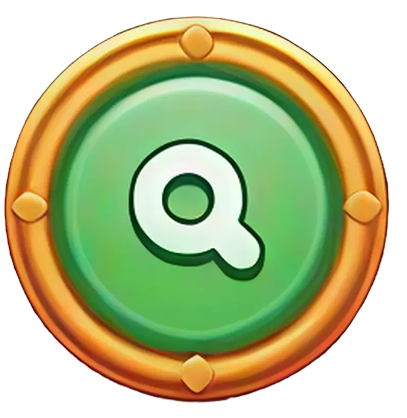
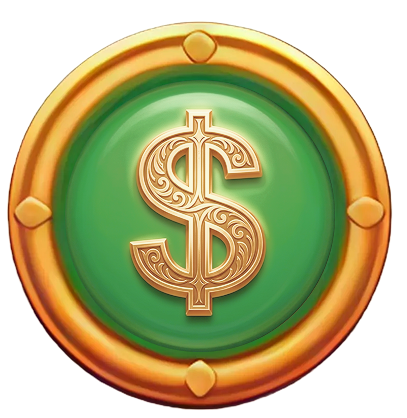
Replace GIFs with background & transition videos
Swap heavyweight GIFs for hardware-decoded MP4s and add a Home/back control.

- CSS: replace background GIF fills with solid fallbacks and new video helpers (.screen-bg, .start-bg, .transition-vid), reorganize top-right controls into .topbar-right, unify styling for info/back buttons and adjust responsive rules.
- UI: components/Game.tsx now embeds looping background and splash videos, and adds a top-right Home (back) button alongside the How-to button; transition layer uses a <video> element instead of an image GIF.
- Controller: stop warming the transition GIF; mute & attempt to play background videos on boot; orchestrate the transition using the transition video (timeupdate/ended handlers + safety timeout) to crossfade the game in/out; add goHome() to restore the splash and re-arm Start; attach Home button handler.
- Assets: add background.mp4, start_screen.mp4, transition.mp4 and back.png; update history.png.

Motivation: MP4s are hardware-decoded, much smaller and smoother than large looping GIFs; transition video allows a clean crossfade on the portal climax. Safety/fallbacks included for autoplay restrictions and reduced-motion preferences.

diff --git a/lib/controller.ts b/lib/controller.ts
@@ -120,11 +120,15 @@ export function boot(): () => void {
 
     // Warm the cascade break-frame GIF so it's cached before the first break
     // animation (replaces the <link rel=preload> the browser flagged as unused).
-    // Also warm the START → game transition GIF so it plays instantly on click.
-    if (typeof Image !== "undefined") {
-      new Image().src = "/assets/cell-break.gif";
-      new Image().src = "/assets/transition.gif";
-    }
+    if (typeof Image !== "undefined") { new Image().src = "/assets/cell-break.gif"; }
+
+    // Background/transition videos: force-mute (React doesn't reliably reflect
+    // the `muted` attribute) so autoplay is allowed, then start the looping
+    // backgrounds. The portal transition is preloaded via its markup.
+    document.querySelectorAll<HTMLVideoElement>("video.start-bg, video.screen-bg, #transitionVid")
+      .forEach((v) => { v.muted = true; });
+    document.querySelectorAll<HTMLVideoElement>("video.start-bg, video.screen-bg")
+      .forEach((v) => { v.play().catch(() => { /* autoplay may defer; harmless */ }); });
 
     // decorative art
     $("runeRing").innerHTML = S.art.techRune();
@@ -351,9 +355,9 @@ export function boot(): () => void {
 
   // Reveal the game on Start. Ignored until the game is ready, and fires exactly
   // once (Start click, Space, and Enter all funnel through here). The sequence:
-  // play the portal transition GIF full-screen, then crossfade — the transition
-  // fades out while the game screen (with its normal background GIF) fades in.
-  const TRANSITION_HOLD = 2600;   // ms the transition plays before the game fades in (tunable)
+  // play the portal transition video IN FULL, fade the game in during its final
+  // stretch, then fade the transition out exactly when the clip ends — a clean
+  // crossfade that lands on the portal climax.
   function dismissStart(): void {
     if (!gameReady || splashGone) return;
     splashGone = true;
@@ -361,45 +365,75 @@ export function boot(): () => void {
 
     const ss = document.getElementById("startScreen");
     const tr = document.getElementById("transition");
-    const trGif = document.getElementById("transitionGif") as HTMLImageElement | null;
+    const vid = document.getElementById("transitionVid") as HTMLVideoElement | null;
     const game = document.getElementById("game");
 
     // Fallback: if the transition layer isn't present, just fade the splash out.
-    if (!tr || !trGif || !game) {
+    if (!tr || !vid || !game) {
       if (ss) { ss.classList.add("hide"); setTimeout(() => { ss.hidden = true; }, 600); }
       return;
     }
 
-    const runTransition = (): void => {
-      // 1) play the transition GIF on top of everything, fading it in over the
-      //    splash (frame 0 ≈ the splash art, so the hand-off is seamless).
-      tr.hidden = false;
-      void tr.offsetWidth;             // reflow so the .show opacity transition runs
-      tr.classList.add("show");
-
-      // 2) once the GIF covers the screen, drop the splash underneath it
-      setTimeout(() => { if (ss) ss.hidden = true; }, 500);
-
-      // 3) crossfade. Start the game fading in first, then lift the transition a
-      //    beat later — by the time it thins, the game is already most of the way
-      //    in, so there's no dark gap and the reveal stays smooth.
-      setTimeout(() => { game.classList.add("reveal-in"); }, TRANSITION_HOLD);
-      setTimeout(() => { tr.classList.add("out"); }, TRANSITION_HOLD + 300);
-
-      // 4) tidy up after the crossfade — remove the transition layer + temp class
+    let finished = false;
+    // Start fading the game in during the clip's final ~0.85s so the crossfade
+    // overlaps the climax.
+    const onTime = (): void => {
+      if (vid.duration && vid.currentTime >= vid.duration - 0.85) {
+        game.classList.add("reveal-in");
+        vid.removeEventListener("timeupdate", onTime);
+      }
+    };
+    // Finish when the clip ends (or via the safety net): lift the transition off
+    // the now-revealed game. Detaches its own listeners so the Home → Start
+    // round-trip re-arms cleanly without stacking handlers.
+    const finish = (): void => {
+      if (finished) return;
+      finished = true;
+      vid.removeEventListener("timeupdate", onTime);
+      vid.removeEventListener("ended", finish);
+      game.classList.add("reveal-in");   // ensure the game is fading/faded in
+      tr.classList.add("out");           // lift the transition off it
       setTimeout(() => {
         tr.hidden = true;
         tr.classList.remove("show", "out");
-        trGif.removeAttribute("src");  // free the decoded frames
         game.classList.remove("reveal-in");
-      }, TRANSITION_HOLD + 1400);
+        try { vid.pause(); } catch { /* ignore */ }
+      }, 1000);
     };
+    vid.addEventListener("timeupdate", onTime, { signal });
+    vid.addEventListener("ended", finish, { signal });
 
-    // Decode the (warmed, cached) GIF before showing so its first frame paints
-    // instantly — no dark flash during the fade-in. Falls back to showing now.
-    trGif.src = "/assets/transition.gif";
-    if (typeof trGif.decode === "function") trGif.decode().then(runTransition, runTransition);
-    else runTransition();
+    // show the transition over the splash, drop the splash beneath it, play from 0
+    tr.hidden = false;
+    void tr.offsetWidth;                 // reflow so the .show opacity transition runs
+    tr.classList.add("show");
+    setTimeout(() => { if (ss) ss.hidden = true; }, 500);
+    try { vid.currentTime = 0; } catch { /* metadata may not be ready; harmless */ }
+    const p = vid.play();
+    if (p && typeof p.catch === "function") p.catch(() => { /* blocked → safety net covers it */ });
+
+    // safety net: if 'ended' never fires (decode stall / blocked play), force-finish
+    const durMs = (vid.duration && isFinite(vid.duration) ? vid.duration : 8.5) * 1000 + 1500;
+    setTimeout(finish, durMs);
+  }
+
+  // Back-to-home button: bring the splash back over the running game and re-arm
+  // START. The game keeps its state underneath; pressing START plays the portal
+  // transition again and reveals it.
+  function goHome(): void {
+    const ss = document.getElementById("startScreen");
+    if (!ss) return;
+    stopAuto();                           // don't leave auto-spin running behind the splash
+    const tr = document.getElementById("transition");
+    if (tr) { tr.hidden = true; tr.classList.remove("show", "out"); }
+    const game = document.getElementById("game");
+    if (game) game.classList.remove("reveal-in");
+    ss.classList.remove("hide");
+    ss.hidden = false;
+    splashGone = false;                   // re-arm START (click / Space / Enter)
+    const bg = ss.querySelector("video.start-bg") as HTMLVideoElement | null;
+    if (bg) { bg.muted = true; bg.play().catch(() => { /* autoplay may defer */ }); }
+    beep(420, 0.08, "square", 0.04);      // soft back blip
   }
 
   async function preSpin(): Promise<void> {
@@ -693,6 +727,9 @@ export function boot(): () => void {
       }
     };
     document.addEventListener("keydown", onStartKey, { signal });
+
+    // back-to-home button (top-right) — re-show the splash over the game
+    $("btnHome").addEventListener("click", goHome, { signal });
 
     btnSpin.addEventListener("click", handleSpinPress, { signal });
 

diff --git a/app/globals.css b/app/globals.css
@@ -40,10 +40,14 @@ button{font-family:inherit;cursor:pointer;color:inherit;}
   container-type:size;
   container-name:stage;
   display:flex;flex-direction:column;
-  background:
-    url('/assets/background.gif') center/cover no-repeat #0a0510;
+  background:#0a0510;
   overflow:hidden;
 }
+/* hardware-decoded background video (was background.gif — ~6× smaller, smooth).
+   Sits at the very back: container-type on .screen makes it a stacking context,
+   so z-index:-1 paints above the solid fill but below the stone floor + content. */
+.screen-bg{position:absolute;inset:0;width:100%;height:100%;object-fit:cover;
+  z-index:-1;pointer-events:none;}
 .screen::before{ /* stone floor — fades smoothly upward, no hard cutoff */
   content:"";position:absolute;left:0;right:0;bottom:0;height:48%;
   background:linear-gradient(to top,
@@ -102,8 +106,11 @@ button{font-family:inherit;cursor:pointer;color:inherit;}
 .logo img{height:clamp(62px,14.5cqh,184px);width:auto;display:block;
   filter:drop-shadow(0 0 18px #43e8ff77) drop-shadow(0 4px 12px #000b);}
 @keyframes logoFlick{0%,95%,100%{opacity:1;}96%{opacity:.78;}97%{opacity:1;}98.5%{opacity:.85;}}
-/* "How to play" button — dark pill so the gold content reads clearly */
-.icon-btn.info-btn{position:absolute;right:1.8cqw;top:50%;transform:translateY(-50%);
+/* top-right controls: HOME (back to splash) + "How to play", grouped to the right */
+.topbar-right{position:absolute;right:1.8cqw;top:50%;transform:translateY(-50%);
+  display:flex;align-items:center;gap:clamp(6px,.85cqw,12px);}
+/* shared dark-gold pill for the "How to play" + HOME buttons */
+.icon-btn.info-btn,.icon-btn.back-btn{
   display:flex;align-items:center;gap:.55em;
   width:auto;height:auto;border-radius:999px;
   padding:clamp(7px,1.15cqh,13px) clamp(13px,1.5cqw,22px);
@@ -111,15 +118,17 @@ button{font-family:inherit;cursor:pointer;color:inherit;}
   font-size:clamp(11px,1.45cqw,17px);font-weight:800;letter-spacing:1.6px;color:#ffe9b8;
   background:radial-gradient(120% 150% at 38% 18%, #16110a 0%, #0a0704 48%, #020101 100%);
   border:2px solid #ffd86a;
-  box-shadow:0 0 18px #43e8ffcc, 0 0 0 3px #00000099, 0 4px 14px #000a, inset 0 0 16px #00000099;
-  animation:infoPulse 2.4s ease-in-out infinite;}
-.icon-btn.info-btn:hover{
+  box-shadow:0 0 18px #43e8ffcc, 0 0 0 3px #00000099, 0 4px 14px #000a, inset 0 0 16px #00000099;}
+.icon-btn.info-btn{animation:infoPulse 2.4s ease-in-out infinite;}
+.icon-btn.info-btn:hover,.icon-btn.back-btn:hover{
   background:radial-gradient(120% 150% at 38% 18%, #241b0d 0%, #100a05 50%, #050302 100%);
   border-color:#ffe7a0;}
 .info-ico{width:1.95em;height:1.95em;flex:none;display:block;
   background:url("/assets/buttons/info.png") center/contain no-repeat;
   filter:drop-shadow(0 1px 2px #000a);}
-.info-txt{white-space:nowrap;line-height:1;text-shadow:0 0 8px #43e8ff55, 0 1px 2px #000;}
+.back-ico{width:1.55em;height:1.55em;flex:none;display:block;color:#ffe9b8;
+  filter:drop-shadow(0 1px 2px #000a);}
+.info-txt,.back-txt{white-space:nowrap;line-height:1;text-shadow:0 0 8px #43e8ff55, 0 1px 2px #000;}
 @keyframes infoPulse{0%,100%{box-shadow:0 0 14px #43e8ff99,0 0 0 3px #00000099,0 4px 14px #000a,inset 0 0 16px #00000099;}
   50%{box-shadow:0 0 28px #43e8ff,0 0 0 3px #00000099,0 4px 14px #000a,inset 0 0 16px #00000099;}}
 
@@ -528,9 +537,11 @@ button{font-family:inherit;cursor:pointer;color:inherit;}
    ÆTHER DYNASTY logo at the top and the START button near the bottom — matching
    the reference composition. Sits above the game (z 100, over modals at 50 and
    the feature overlay at 60) and fades out on Start to reveal the game. */
-.start-screen{position:fixed;inset:0;z-index:100;
-  background:url('/assets/start_screen.gif') center/cover no-repeat #0a0510;
+.start-screen{position:fixed;inset:0;z-index:100;background:#0a0510;
   animation:fade .4s ease;}
+/* splash background video (was start_screen.gif) — loops behind the logo/button */
+.start-bg{position:absolute;inset:0;width:100%;height:100%;object-fit:cover;
+  z-index:0;pointer-events:none;}
 .start-screen.hide{animation:startOut .55s ease forwards;pointer-events:none;}
 @keyframes startOut{to{opacity:0;transform:scale(1.04);}}
 
@@ -575,29 +586,24 @@ button{font-family:inherit;cursor:pointer;color:inherit;}
 @keyframes startSpin{to{transform:rotate(360deg);}}
 
 /* ---- start → game transition --------------------------------------------- *
-   On START we play transition.gif full-screen above everything (z 110, over the
-   splash at 100), then crossfade: the transition fades out while the game screen
-   — with its normal background.gif — fades in beneath it. Everything animates
-   on opacity/transform only (GPU-composited) with eased curves for smoothness. */
+   On START we play transition.mp4 full-screen above everything (z 110, over the
+   splash at 100). It plays in full; near its end the game screen fades in, and
+   on 'ended' the transition fades out — a clean crossfade onto the portal climax.
+   Hardware-decoded video, so it's smooth and light (no giant-GIF repaint). */
 .transition-fx{position:fixed;inset:0;z-index:110;background:#0a0510;
-  opacity:0;transition:opacity .45s cubic-bezier(.4,0,.2,1);
-  will-change:opacity;backface-visibility:hidden;}
+  opacity:0;transition:opacity .45s cubic-bezier(.4,0,.2,1);will-change:opacity;}
 .transition-fx.show{opacity:1;}
 .transition-fx.out{opacity:0;transition:opacity .9s cubic-bezier(.4,0,.2,1);}
-.transition-gif{position:absolute;inset:0;width:100%;height:100%;object-fit:cover;display:block;
-  transform-origin:center;will-change:transform;backface-visibility:hidden;
-  animation:trZoom 6.5s cubic-bezier(.33,0,.2,1) both;}   /* slow push toward the portal */
-@keyframes trZoom{from{transform:scale(1);}to{transform:scale(1.05);}}
+.transition-vid{position:absolute;inset:0;width:100%;height:100%;object-fit:cover;display:block;}
 
 /* the game screen materialises — fades in with a gentle settle as the transition lifts */
-#game.reveal-in{animation:gameReveal .9s cubic-bezier(.22,1,.36,1) both;
-  will-change:opacity,transform;backface-visibility:hidden;}
+#game.reveal-in{animation:gameReveal .9s cubic-bezier(.22,1,.36,1) both;will-change:opacity;}
 @keyframes gameReveal{from{opacity:0;transform:scale(1.012);}to{opacity:1;transform:scale(1);}}
 @keyframes gameRevealRM{from{opacity:0;}to{opacity:1;}}   /* reduced-motion: opacity only */
 
-/* respect reduced-motion: keep a quick crossfade but drop looping/zoom flourishes */
+/* respect reduced-motion: keep a quick crossfade but drop looping flourishes */
 @media (prefers-reduced-motion: reduce){
-  .start-logo,.start-btn,.transition-gif{animation:none;}
+  .start-logo,.start-btn{animation:none;}
   .transition-fx,.transition-fx.out{transition-duration:.4s;}
   #game.reveal-in{animation:gameRevealRM .45s ease both;}
 }
@@ -621,10 +627,12 @@ button{font-family:inherit;cursor:pointer;color:inherit;}
      "HOW TO PLAY" caption), kept clear of the logo so they never overlap */
   .topbar{padding:max(6px,1.6vmin) 3vw 0;}
   .logo img{height:clamp(44px,min(10cqh,18vmin),104px);max-width:48vw;}
-  .icon-btn.info-btn{right:2.5vw;flex-direction:column;gap:3px;
+  .topbar-right{right:2.5vw;gap:2vw;}
+  .icon-btn.info-btn,.icon-btn.back-btn{flex-direction:column;gap:3px;
     padding:6px 8px;font-size:9px;letter-spacing:.4px;line-height:1.08;}
   .info-ico{width:clamp(19px,5vmin,26px);height:clamp(19px,5vmin,26px);}
-  .info-txt{white-space:normal;text-align:center;max-width:5.5em;}
+  .back-ico{width:clamp(17px,4.6vmin,24px);height:clamp(17px,4.6vmin,24px);}
+  .info-txt,.back-txt{white-space:normal;text-align:center;max-width:5.5em;}
 
   /* free-game banner shrinks so it can't overflow a narrow screen */
   .free-banner{gap:2.5vw;padding:5px 3vw;font-size:clamp(11px,3vmin,15px);}
@@ -690,7 +698,7 @@ button{font-family:inherit;cursor:pointer;color:inherit;}
 @media (orientation:landscape) and (max-height:520px){
   .topbar{padding:1vmin 2cqw 0;}
   .logo img{height:clamp(38px,11cqh,90px);}
-  .icon-btn.info-btn{padding:5px 10px;font-size:11px;}
+  .icon-btn.info-btn,.icon-btn.back-btn{padding:5px 10px;font-size:11px;}
   /* give back vertical room: smaller board + tighter HUD, drop the hint line */
   .board{--board-size:clamp(120px,min(44cqh,70cqw),520px);}
   .hud{margin-bottom:clamp(6px,1.6cqh,18px);gap:1.4cqw;}

diff --git a/components/Game.tsx b/components/Game.tsx
@@ -23,6 +23,9 @@ export default function Game() {
         {/* ===================== GAME SCREEN ===================== */}
         <div id="game" className="screen">
 
+          {/* hardware-decoded background (was background.gif) */}
+          <video className="screen-bg" src="/assets/background.mp4" autoPlay muted loop playsInline aria-hidden="true" />
+
           {/* futuristic background layer */}
           <div className="bg-grid" />
           <div className="rune-ring" id="runeRing" />
@@ -32,10 +35,19 @@ export default function Game() {
             <div className="logo">
               <img src="/assets/logo.png" alt="Aether Dynasty" draggable={false} />
             </div>
-            <button className="icon-btn info-btn" id="btnRules" title="How to play" aria-label="How to play">
-              <span className="info-ico" />
-              <span className="info-txt">How to Play</span>
-            </button>
+            <div className="topbar-right">
+              <button className="icon-btn info-btn" id="btnRules" title="How to play" aria-label="How to play">
+                <span className="info-ico" />
+                <span className="info-txt">How to Play</span>
+              </button>
+              <button className="icon-btn back-btn" id="btnHome" title="Back to home" aria-label="Back to home screen">
+                <svg className="back-ico" viewBox="0 0 24 24" aria-hidden="true">
+                  <path d="M3 11.5 12 4l9 7.5M5.5 10v9.5h4.5v-5.5h4v5.5h4.5V10" fill="none"
+                    stroke="currentColor" strokeWidth="2" strokeLinecap="round" strokeLinejoin="round" />
+                </svg>
+                <span className="back-txt">Home</span>
+              </button>
+            </div>
           </header>
 
           {/* free game banner */}
@@ -146,6 +158,7 @@ export default function Game() {
 
       {/* ===================== START / SPLASH SCREEN ===================== */}
       <div className="start-screen" id="startScreen">
+        <video className="start-bg" src="/assets/start_screen.mp4" autoPlay muted loop playsInline aria-hidden="true" />
         <div className="start-inner">
           <img className="start-logo" src="/assets/logo.png" alt="Aether Dynasty" draggable={false} />
           <button className="start-btn loading" id="btnStart" type="button" disabled aria-busy="true">
@@ -156,7 +169,8 @@ export default function Game() {
 
       {/* ============ START → GAME TRANSITION (portal sting) ============ */}
       <div className="transition-fx" id="transition" hidden>
-        <img className="transition-gif" id="transitionGif" alt="" aria-hidden="true" draggable={false} />
+        <video className="transition-vid" id="transitionVid" src="/assets/transition.mp4"
+          muted playsInline preload="auto" aria-hidden="true" />
       </div>
     </>
   );